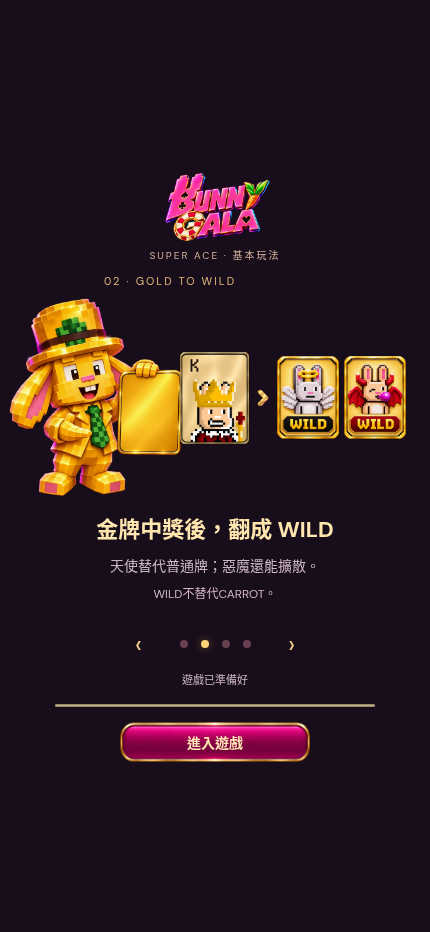
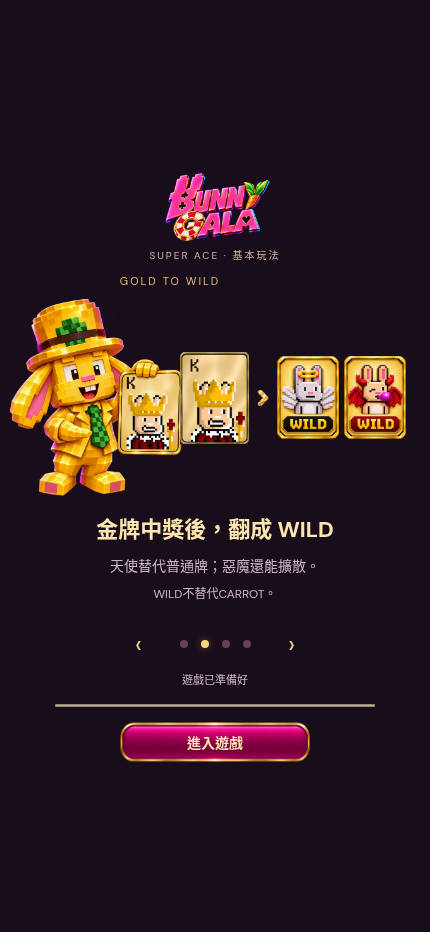
Require manual guide entry each visit and show approved gold K in rabbit hand

diff --git a/super-ace-prototype/dist/app.js b/super-ace-prototype/dist/app.js
@@ -1,14 +1,14 @@
-import {createLoadingGuide} from './loading-guide.js?v=phone-guide-v1';
-import {assetURL,loadImage,prepareImages,presentationSources,onAssetProgress,assetStats} from './asset-cache.js?v=phone-guide-v1';
-import {createGameMusic} from './music.js?v=phone-guide-v1';
-import {createRoundHistory} from './round-history.js?v=phone-guide-v1';
-import {prepareCardAssets,preparePlanAssets} from './card-assets.js?v=phone-guide-v1';
-import {createCarrotScenes} from './carrot-scenes.js?v=phone-guide-v1';
-import {compactMoney,exactMoney,betStep,clampBet,ratioBets,parseMoney,validBet,createSessionTotal} from './money.js?v=phone-guide-v1';
-import {createPlaybackClock} from './playback-clock.js?v=phone-guide-v1';
-import {createEffects,ANIMATION_DEFINITIONS} from './effects.js?v=phone-guide-v1';
-import {buildRoundPlan,applyBonus,settleRound,createJournal} from './round-plan.js?v=phone-guide-v1';
-import {createEngine,BASE_MULTIPLIERS,FREE_MULTIPLIERS,DEFAULT_PAYTABLE,MATH_VERSION,BET_UNIT,maxBet} from './engine.js?v=phone-guide-v1';
+import {createLoadingGuide} from './loading-guide.js?v=phone-guide-v2';
+import {assetURL,loadImage,prepareImages,presentationSources,onAssetProgress,assetStats} from './asset-cache.js?v=phone-guide-v2';
+import {createGameMusic} from './music.js?v=phone-guide-v2';
+import {createRoundHistory} from './round-history.js?v=phone-guide-v2';
+import {prepareCardAssets,preparePlanAssets} from './card-assets.js?v=phone-guide-v2';
+import {createCarrotScenes} from './carrot-scenes.js?v=phone-guide-v2';
+import {compactMoney,exactMoney,betStep,clampBet,ratioBets,parseMoney,validBet,createSessionTotal} from './money.js?v=phone-guide-v2';
+import {createPlaybackClock} from './playback-clock.js?v=phone-guide-v2';
+import {createEffects,ANIMATION_DEFINITIONS} from './effects.js?v=phone-guide-v2';
+import {buildRoundPlan,applyBonus,settleRound,createJournal} from './round-plan.js?v=phone-guide-v2';
+import {createEngine,BASE_MULTIPLIERS,FREE_MULTIPLIERS,DEFAULT_PAYTABLE,MATH_VERSION,BET_UNIT,maxBet} from './engine.js?v=phone-guide-v2';
 const $=s=>document.querySelector(s),$$=s=>[...document.querySelectorAll(s)];
 const reviewMode=new URLSearchParams(location.search).has('review');const sessionStorageAdapter=reviewMode?{getItem:()=>null,setItem:()=>{}}:localStorage;const engine=createEngine(),journal=createJournal(sessionStorageAdapter),saved=journal.read();
 const legacy=(()=>{try{return reviewMode?{}:JSON.parse(localStorage.getItem('gala-carrot-v1'))||{}}catch{return{}}})();
@@ -151,9 +151,7 @@ window.galaDebug={getState:()=>({mathVersion:MATH_VERSION,scene:scenes.state,bal
 
 // The first game frame is revealed atomically after all in-play textures are decoded.
 const loading=document.getElementById('assetLoading');
-const forceGuide=new URLSearchParams(location.search).has('loadingGuide');
-const returning=reviewMode||!!localStorage.getItem('gala-carrot-tutorial')||!!activeRound||free>0;
-const guide=createLoadingGuide({root:loading,autoEnter:returning&&!forceGuide,onEnter:()=>{document.body.classList.add('assets-ready');loading.hidden=true;render();idle();music.tryAutoplay();if(!reviewMode)localStorage.setItem('gala-carrot-tutorial','1');if(activeRound||(free&&!freeStartPending)){recoveryPrompt=true;openModal('<h2>繼續已保存的牌局</h2><p>本局結果已保留，恢復不會重新扣除下注或重複發放獎勵。</p><div class="btn-row"><button class="btn primary" id="resumeRound">繼續牌局</button></div>',48);$('#resumeRound').onclick=resumeRecovery}}});
+const guide=createLoadingGuide({root:loading,onEnter:()=>{document.body.classList.add('assets-ready');loading.hidden=true;render();idle();music.tryAutoplay();if(!reviewMode)localStorage.setItem('gala-carrot-tutorial','1');if(activeRound||(free&&!freeStartPending)){recoveryPrompt=true;openModal('<h2>繼續已保存的牌局</h2><p>本局結果已保留，恢復不會重新扣除下注或重複發放獎勵。</p><div class="btn-row"><button class="btn primary" id="resumeRound">繼續牌局</button></div>',48);$('#resumeRound').onclick=resumeRecovery}}});
 const loadingText=document.getElementById('loadingText'),loadingBar=document.getElementById('loadingProgress'),retryAssets=document.getElementById('retryAssets');
 onAssetProgress(({completed,total})=>{if(guide.ready||!retryAssets.hidden)return;loadingBar.max=Math.max(1,total);loadingBar.value=completed;loadingText.textContent=`正在準備遊戲 ${completed} / ${total}`});
 document.addEventListener('pointerdown',()=>{if(visualReady)music.unlock()},{passive:true});document.addEventListener('keydown',()=>{if(visualReady)music.unlock()},{passive:true});

diff --git a/super-ace-prototype/dist/loading-guide.js b/super-ace-prototype/dist/loading-guide.js
@@ -1,9 +1,9 @@
-import {assetURL,loadImage} from './asset-cache.js?v=phone-guide-v1';
+import {assetURL,loadImage} from './asset-cache.js?v=phone-guide-v2';
 const slides=[
- {key:'ways',tag:'01 · WAYS WIN',title:'由左開始，連續三列中獎',body:'相同符號由最左列起，至少連續出現3列。',note:'不必在同一行。',mascot:'ways',art:'ways'},
- {key:'gold',tag:'02 · GOLD TO WILD',title:'金牌中獎後，翻成 WILD',body:'天使替代普通牌；惡魔還能擴散。',note:'WILD不替代CARROT。',mascot:'gold',art:'wild'},
- {key:'carrot',tag:'03 · FREE SPINS',title:'同一盤面3個 CARROT',body:'獲得10次免費遊戲；免費期間再觸發加5次。',note:'免費局沿用下注額，不扣蘿蔔。',mascot:'carrot',art:'carrot'},
- {key:'cascade',tag:'04 · CASCADE',title:'再中獎，倍率繼續升',body:'中獎牌消除、補入新牌；連鎖中獎提升倍率。',note:'普通×1／×2／×3／×5；免費為雙倍。',mascot:'ways',art:'cascade'}
+ {key:'ways',tag:'WAYS WIN',title:'由左開始，連續三列中獎',body:'相同符號由最左列起，至少連續出現3列。',note:'不必在同一行。',mascot:'ways',art:'ways'},
+ {key:'gold',tag:'GOLD TO WILD',title:'金牌中獎後，翻成 WILD',body:'天使替代普通牌；惡魔還能擴散。',note:'WILD不替代CARROT。',mascot:'gold-k',art:'wild'},
+ {key:'carrot',tag:'FREE SPINS',title:'同一盤面3個 CARROT',body:'獲得10次免費遊戲；免費期間再觸發加5次。',note:'免費局沿用下注額，不扣蘿蔔。',mascot:'carrot',art:'carrot'},
+ {key:'cascade',tag:'CASCADE',title:'再中獎，倍率繼續升',body:'中獎牌消除、補入新牌；連鎖中獎提升倍率。',note:'普通×1／×2／×3／×5；免費為雙倍。',mascot:'ways',art:'cascade'}
 ];
 const image=(src,cls='',alt='')=>`<img class="${cls}" src="${assetURL(src)}" alt="${alt}">`;
 function diagram(type){
@@ -12,7 +12,7 @@ function diagram(type){
  if(type==='carrot')return `<div class="guide-carrots">${[1,2,3].map(()=>image('assets/art/carrot-bonus.png')).join('')}<strong>10<span>FREE SPINS</span></strong></div>`;
  return '<div class="guide-cascade"><span>×1</span><span>×2</span><span>×3</span><span>×5</span><small>連鎖中獎，逐級提升</small></div>';
 }
-export function createLoadingGuide({root,onEnter=()=>{},autoEnter=false}={}){
+export function createLoadingGuide({root,onEnter=()=>{}}={}){
  let index=0,ready=false,timer,closed=false,revision=0;
  root.innerHTML=`<div class="guide-brand">${image('assets/bunny-gala-transparent.png','','Bunny Gala')}<small>SUPER ACE · 基本玩法</small></div><div id="guideContent" class="guide-content"></div><nav class="guide-navigation" aria-label="玩法介紹頁面"><button id="guidePrev" aria-label="上一張">‹</button><div class="guide-dots">${slides.map((s,i)=>`<button data-guide="${i}" aria-label="第${i+1}張：${s.title}"></button>`).join('')}</div><button id="guideNext" aria-label="下一張">›</button></nav><div class="guide-loading"><p id="loadingText" role="status">正在準備遊戲…</p><progress id="loadingProgress" max="1" value="0" aria-label="遊戲圖片載入進度"></progress><button id="enterGame" class="btn primary" disabled>準備中…</button><button id="retryAssets" class="btn" hidden>重新載入圖片</button></div>`;
  const q=s=>root.querySelector(s);
@@ -22,5 +22,5 @@ export function createLoadingGuide({root,onEnter=()=>{},autoEnter=false}={}){
  q('#guidePrev').onclick=()=>go(-1);q('#guideNext').onclick=()=>go(1);root.querySelectorAll('[data-guide]').forEach(b=>b.onclick=()=>{show(Number(b.dataset.guide));restart()});
  function enter(){if(!ready||closed)return;closed=true;clearInterval(timer);revision++;onEnter()}
  q('#enterGame').onclick=enter;show(0);restart();
- return{show,enter,markReady(){ready=true;q('#loadingText').textContent='遊戲已準備好';q('#loadingProgress').value=q('#loadingProgress').max;q('#enterGame').disabled=false;q('#enterGame').textContent='進入遊戲';if(autoEnter)enter()},destroy(){closed=true;clearInterval(timer);revision++},get ready(){return ready}};
+ return{show,enter,markReady(){ready=true;q('#loadingText').textContent='遊戲已準備好';q('#loadingProgress').value=q('#loadingProgress').max;q('#enterGame').disabled=false;q('#enterGame').textContent='進入遊戲';},destroy(){closed=true;clearInterval(timer);revision++},get ready(){return ready}};
 }

diff --git a/super-ace-prototype/dist/index.html b/super-ace-prototype/dist/index.html
@@ -14,9 +14,9 @@
 <link rel="stylesheet" href="free-rabbit.css?v=smooth-v1">
 <link rel="stylesheet" href="smooth.css?v=smooth-v1">
 <link rel="stylesheet" href="audio-controls.css?v=audio-guide-v1">
-<link rel="stylesheet" href="roll-controls.css?v=phone-guide-v1">
-<link rel="stylesheet" href="phone-layout.css?v=phone-guide-v1">
-<link rel="stylesheet" href="loading-guide.css?v=phone-guide-v1">
+<link rel="stylesheet" href="roll-controls.css?v=phone-guide-v2">
+<link rel="stylesheet" href="phone-layout.css?v=phone-guide-v2">
+<link rel="stylesheet" href="loading-guide.css?v=phone-guide-v2">
 </head>
 <body>
 <section id="assetLoading" class="asset-loading" role="region" aria-label="玩法介紹與遊戲載入"><div class="loading-brand"><img src="assets/runtime/bunny-gala-transparent-34aa9c81-display768w.webp" alt="Bunny Gala"></div><p id="loadingText">正在準備遊戲…</p><progress id="loadingProgress" max="1" value="0" aria-label="遊戲圖片載入進度"></progress><button id="retryAssets" hidden>重新載入圖片</button></section>
@@ -43,6 +43,6 @@
 <dialog id="modal"><div class="modal-head"><span class="eyebrow">BUNNY GALA</span><button id="closeModal" aria-label="關閉">×</button></div><div id="modalContent"></div></dialog>
 <dialog id="connectionDialog"><h2>牌局已暫停</h2><p>連線恢復後，繼續同一局已保存的結果。</p></dialog>
 <div class="toast" id="toast" role="status"></div>
-<script type="module" src="app.js?v=phone-guide-v1"></script>
+<script type="module" src="app.js?v=phone-guide-v2"></script>
 </body>
 </html>

diff --git a/super-ace-prototype/dist/music.js b/super-ace-prototype/dist/music.js
@@ -1,4 +1,4 @@
-import {AUDIO_CATALOG} from './audio-catalog.js?v=phone-guide-v1';
+import {AUDIO_CATALOG} from './audio-catalog.js?v=phone-guide-v2';
 const TRACKS=Object.fromEntries(AUDIO_CATALOG.tracks.map(t=>[t.id,t]));
 const LEVELS={intro:.8,lobby:.5,bgm_main:.6,bgm_bonus:.6,card_shuffle:.7,reel_spin:.6,reel_stop:.7,bet_change:.6,turbo_spin:.6,auto_spin:.6,no_win:.5,win_normal:.7,win_countup:.6,coins:.6,golden_card:.8,golden_eliminate:.8,little_joker:.7,big_joker:.8,cascade:.7,multiplier:.8,scatter:.7,scatter_near:.7,freespin_trigger:.9,freespin_retrigger:.8,freespin_bigwin:.9,freespin_result:.7,return_base:.6,win_big:.8,mega_win:.9,ultimate_win:1,jackpot:1,paytable_open:.6,settings_open:.6,pause:.6,quit:.6,no_coins:.7,buy_bonus:.8};
 const MUSIC_CUES=new Set(['intro','win_normal','win_big','mega_win','ultimate_win','jackpot','freespin_bigwin']);

diff --git a/super-ace-prototype/dist/card-assets.js b/super-ace-prototype/dist/card-assets.js
@@ -1,4 +1,4 @@
-import {prepareImages} from './asset-cache.js?v=phone-guide-v1';
+import {prepareImages} from './asset-cache.js?v=phone-guide-v2';
 const symbols=['J','Q','K','A','S','H','C','D'];
 const paths=symbols.flatMap(s=>['normal','gold'].map(t=>`assets/art/card-${t}-${s}.png`)).concat(['assets/art/carrot-bonus.png','assets/art/wild-angel-fitted.svg','assets/art/wild-devil-fitted.svg','assets/art/card-gold-overlay.png','assets/back.png']);
 export function prepareCardAssets(){return prepareImages(paths)}

diff --git a/super-ace-prototype/dist/asset-cache.js b/super-ace-prototype/dist/asset-cache.js
@@ -1,4 +1,4 @@
-import {ASSET_MAP} from './asset-map.js?v=phone-guide-v1';
+import {ASSET_MAP} from './asset-map.js?v=phone-guide-v2';
 const images=new Map(),pending=new Map(),queue=[];let active=0,completed=0;const listeners=new Set();
 export const assetURL=src=>ASSET_MAP[src.split('?')[0]]??src;
 const notify=()=>listeners.forEach(fn=>fn({completed,total:completed+pending.size,active}));

diff --git a/super-ace-prototype/dist/effects.js b/super-ace-prototype/dist/effects.js
@@ -1,4 +1,4 @@
-import {assetURL,prepareImages} from './asset-cache.js?v=phone-guide-v1';
+import {assetURL,prepareImages} from './asset-cache.js?v=phone-guide-v2';
 import {createPresentationQuality} from './presentation-quality.js?v=comfort-v1';
 import {compactMoney} from './money.js?v=math-v1';
 export const ANIMATION_DEFINITIONS = Object.freeze([

diff --git a/ART/SuperAce/26_Phone_Layout_Loading_Guide/README.md b/ART/SuperAce/26_Phone_Layout_Loading_Guide/README.md
@@ -11,11 +11,13 @@
 ![Cascade multipliers](loading-guide-4.png)
 
 - Fixed portrait screen, controls anchored above the safe bottom; larger ROLL and four equally sized secondary keys. Tall screens increase vertical card gutters and HUD spacing. Short screens use compact controls. Cards retain625:835 proportions; dealer columns remain aligned.
-- Four lessons rotate every5.5seconds; manual arrows/dots. First visit may enter as soon as core images decode; no forced countdown. Returning players enter automatically. Help→重看教學 reopens the illustrated guide.
+- Four lessons rotate every5.5seconds; manual arrows/dots. First visit may enter as soon as core images decode; no forced countdown. Every visit, including returning and review visits, requires pressing 進入遊戲 after assets are ready. Help→重看教學 reopens the illustrated guide.
 - Initial guide images are independent of the core asset gate: a failed mascot does not prevent play. No unloaded core playing card is exposed; critical asset failures retain retry and do not debit the wallet.
 - JILI reference: https://jiligames.com/PlusIntro/49?showGame=false and prior repository audit `16_Rewards_History_Performance/OFFICIAL_RULE_CHECK.md`. Current direct page request returned403, so this delivery does not claim a fresh official probability/paytable verification. Lessons describe this game's implemented rules: at least3leftmost consecutive reels; gold winners convert to WILD; WILD excludesCARROT;3CARROTs award10free spins (free retrigger+5); ordinary1/2/3/5, free2/4/6/10.
 - No mathematical model or sound behavior changed. Provisional gameplay rating8/10: complete mechanics and onboarding, with real low-end device soak tests and player pacing feedback still needed before a higher rating.
 
 ## Verification
 
-`npm test`29passing checks. `qa/portrait-layout.cjs` six sizes320×568 through430×932,20portrait cards, per-axis even gutters, dealer alignment, accessible44pxminimum keys, no document scrolling. `qa/desktop-fit.cjs` five desktop/touch configurations. `qa/loading-guide.cjs` four decoded pages on three touch sizes, entry/replay preserves wallet, first/returning flow. See prototype QA sources for reproducible checks.
+`npm test`29passing checks. `qa/portrait-layout.cjs` six sizes320×568 through430×932,20portrait cards, per-axis even gutters, dealer alignment, accessible44pxminimum keys, no document scrolling. `qa/desktop-fit.cjs` five desktop/touch configurations. `qa/loading-guide.cjs` four decoded pages on three touch sizes, entry/replay preserves wallet, mandatory manual entry on both first/returning visits. See prototype QA sources for reproducible checks.
+
+2026-11-10 revision: removed01–04 labels; gold-hat rabbit now holds the approved gold K card. Updated independent PNG master and runtime WebP.
